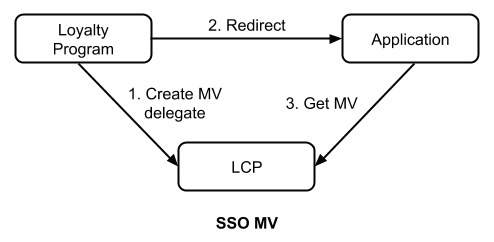
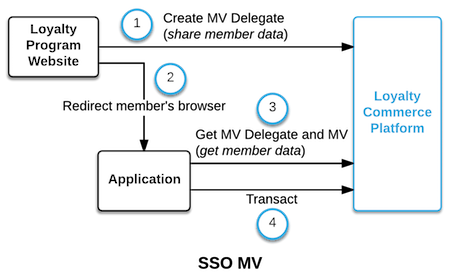
update sso-mv and lp-api-buy diagram for lp-reference and add balanceCheckOnDebit to get-an-lp-example

Changed region(s): [[0.0, 0.0289, 0.9933, 0.8967], [0.4346, 0.8967, 0.5898, 0.9835]]

diff --git a/documentation.js b/documentation.js
@@ -10597,7 +10597,7 @@ module.exports = (Handlebars["default"] || Handlebars).template({"compiler":[7,"
     + alias4(((helper = (helper = helpers.id || (depth0 != null ? depth0.id : depth0)) != null ? helper : alias2),(typeof helper === alias3 ? helper.call(alias1,{"name":"id","hash":{},"data":data}) : helper)))
     + "\">"
     + alias4(((helper = (helper = helpers.title || (depth0 != null ? depth0.title : depth0)) != null ? helper : alias2),(typeof helper === alias3 ? helper.call(alias1,{"name":"title","hash":{},"data":data}) : helper)))
-    + "</a></li>\r\n";
+    + "</a></li>\n";
 },"useData":true});
 
 /***/ }),
@@ -14293,13 +14293,13 @@ function __default(obj) { return obj && (obj.__esModule ? obj["default"] : obj);
 module.exports = (Handlebars["default"] || Handlebars).template({"compiler":[7,">= 4.0.0"],"main":function(container,depth0,helpers,partials,data) {
     var stack1, helper, alias1=depth0 != null ? depth0 : (container.nullContext || {}), alias2=helpers.helperMissing, alias3="function";
 
-  return "<article class=\"document\">\r\n  <div class=\"for-humans\" id="
+  return "<article class=\"document\">\n  <div class=\"for-humans\" id="
     + container.escapeExpression(((helper = (helper = helpers.id || (depth0 != null ? depth0.id : depth0)) != null ? helper : alias2),(typeof helper === alias3 ? helper.call(alias1,{"name":"id","hash":{},"data":data}) : helper)))
-    + ">\r\n    "
+    + ">\n    "
     + ((stack1 = ((helper = (helper = helpers.content || (depth0 != null ? depth0.content : depth0)) != null ? helper : alias2),(typeof helper === alias3 ? helper.call(alias1,{"name":"content","hash":{},"data":data}) : helper))) != null ? stack1 : "")
-    + "\r\n  </div>\r\n  <div class=\"for-machines\">\r\n    "
+    + "\n  </div>\n  <div class=\"for-machines\">\n    "
     + ((stack1 = ((helper = (helper = helpers.example || (depth0 != null ? depth0.example : depth0)) != null ? helper : alias2),(typeof helper === alias3 ? helper.call(alias1,{"name":"example","hash":{},"data":data}) : helper))) != null ? stack1 : "")
-    + "\r\n  </div>\r\n</article>\r\n";
+    + "\n  </div>\n</article>\n";
 },"useData":true});
 
 /***/ }),
@@ -14318,7 +14318,7 @@ module.exports = (Handlebars["default"] || Handlebars).template({"compiler":[7,"
 
   return "<section class=\"api-documents\" id=\"section-"
     + container.escapeExpression(((helper = (helper = helpers.id || (depth0 != null ? depth0.id : depth0)) != null ? helper : helpers.helperMissing),(typeof helper === "function" ? helper.call(depth0 != null ? depth0 : (container.nullContext || {}),{"name":"id","hash":{},"data":data}) : helper)))
-    + "\"></section>\r\n";
+    + "\"></section>\n";
 },"useData":true});
 
 /***/ }),
@@ -14335,9 +14335,9 @@ function __default(obj) { return obj && (obj.__esModule ? obj["default"] : obj);
 module.exports = (Handlebars["default"] || Handlebars).template({"compiler":[7,">= 4.0.0"],"main":function(container,depth0,helpers,partials,data) {
     var stack1, helper;
 
-  return "<div class=\"one-document\">\r\n  "
+  return "<div class=\"one-document\">\n  "
     + ((stack1 = ((helper = (helper = helpers.content || (depth0 != null ? depth0.content : depth0)) != null ? helper : helpers.helperMissing),(typeof helper === "function" ? helper.call(depth0 != null ? depth0 : (container.nullContext || {}),{"name":"content","hash":{},"data":data}) : helper))) != null ? stack1 : "")
-    + "\r\n</div>\r\n";
+    + "\n</div>\n";
 },"useData":true});
 
 /***/ }),
